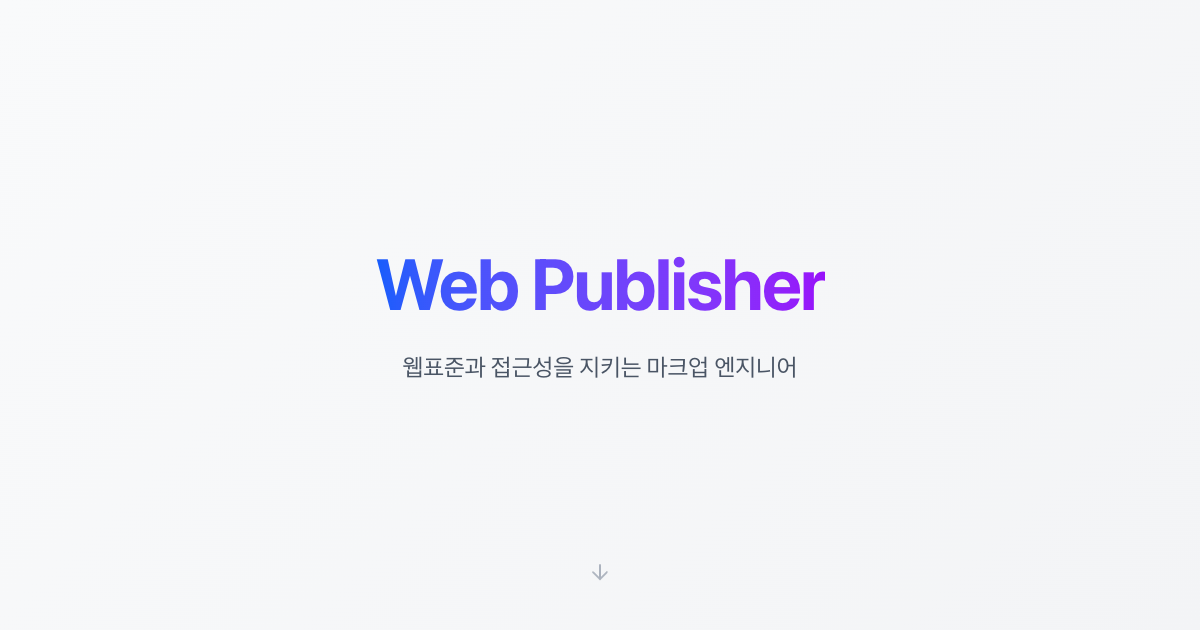
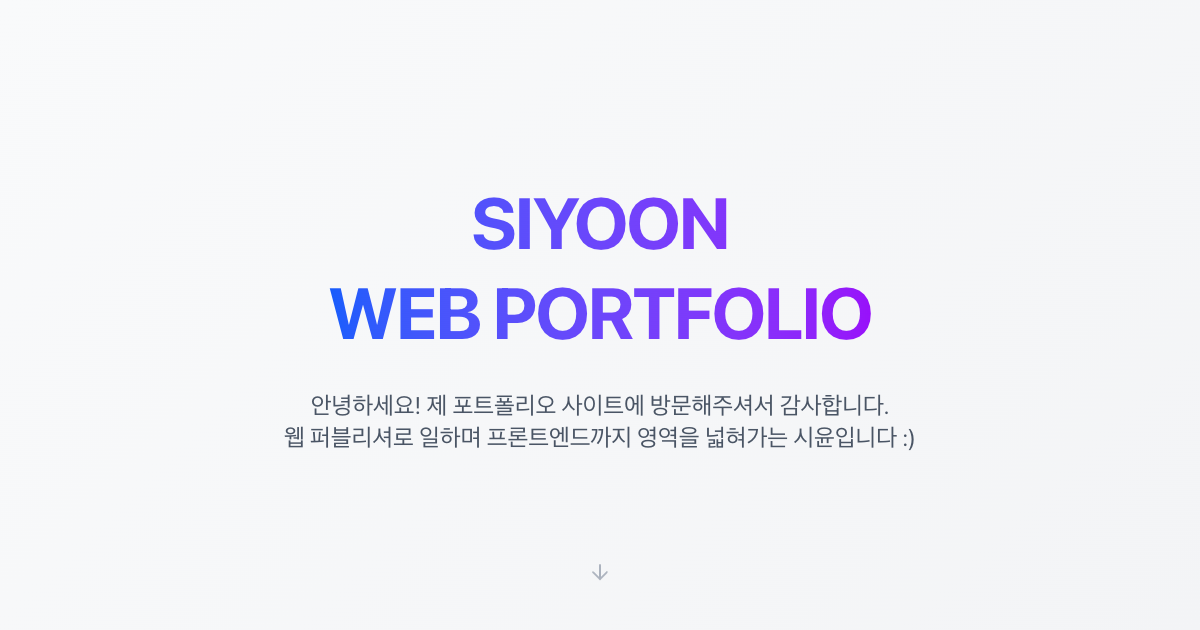
content: Hero 타이틀·부제 시안 톤으로 교체
타이틀을 'SIYOON / WEB PORTFOLIO' 2줄 그라데이션으로 변경.
부제는 인사말 + 자기소개 2줄로 교체, 어절 단위 줄바꿈
(break-keep) + 가로 폭 제한 해제.
OG 이미지도 새 문구로 재캡쳐.

Changed region(s): [[0.2158, 0.3016, 0.7708, 0.7238]]

diff --git a/src/lib/profile.ts b/src/lib/profile.ts
@@ -54,8 +54,9 @@ export interface ProfileData {
 }
 
 export const defaultProfile: ProfileData = {
-  title: "Web Publisher",
-  tagline: "웹표준과 접근성을 지키는 웹 퍼블리셔",
+  title: "SIYOON\nWEB PORTFOLIO",
+  tagline:
+    "안녕하세요! 제 포트폴리오 사이트에 방문해주셔서 감사합니다.\n웹 퍼블리셔로 일하며 프론트엔드까지 영역을 넓혀가는 시윤입니다 :)",
 
   name: "Kim Siyoon",
   position: "웹 퍼블리셔",

diff --git a/src/components/sections/HeroSection.tsx b/src/components/sections/HeroSection.tsx
@@ -14,10 +14,10 @@ export function HeroSection({
   return (
     <section className="relative flex min-h-screen flex-col items-center justify-center px-6 py-20 text-center">
       <div className="mx-auto flex max-w-[1280px] flex-col items-center gap-8">
-        <h1 className="bg-gradient-to-r from-brand-blue to-brand-purple bg-clip-text text-5xl font-bold tracking-tight text-transparent md:text-display-2xl">
+        <h1 className="whitespace-pre-line bg-gradient-to-r from-brand-blue to-brand-purple bg-clip-text text-5xl font-bold leading-tight tracking-tight text-transparent md:text-display-2xl">
           {title}
         </h1>
-        <p className="max-w-xl text-xl text-text-secondary md:text-2xl">
+        <p className="w-full whitespace-pre-line break-keep text-xl text-text-secondary md:text-2xl">
           {tagline}
         </p>
       </div>